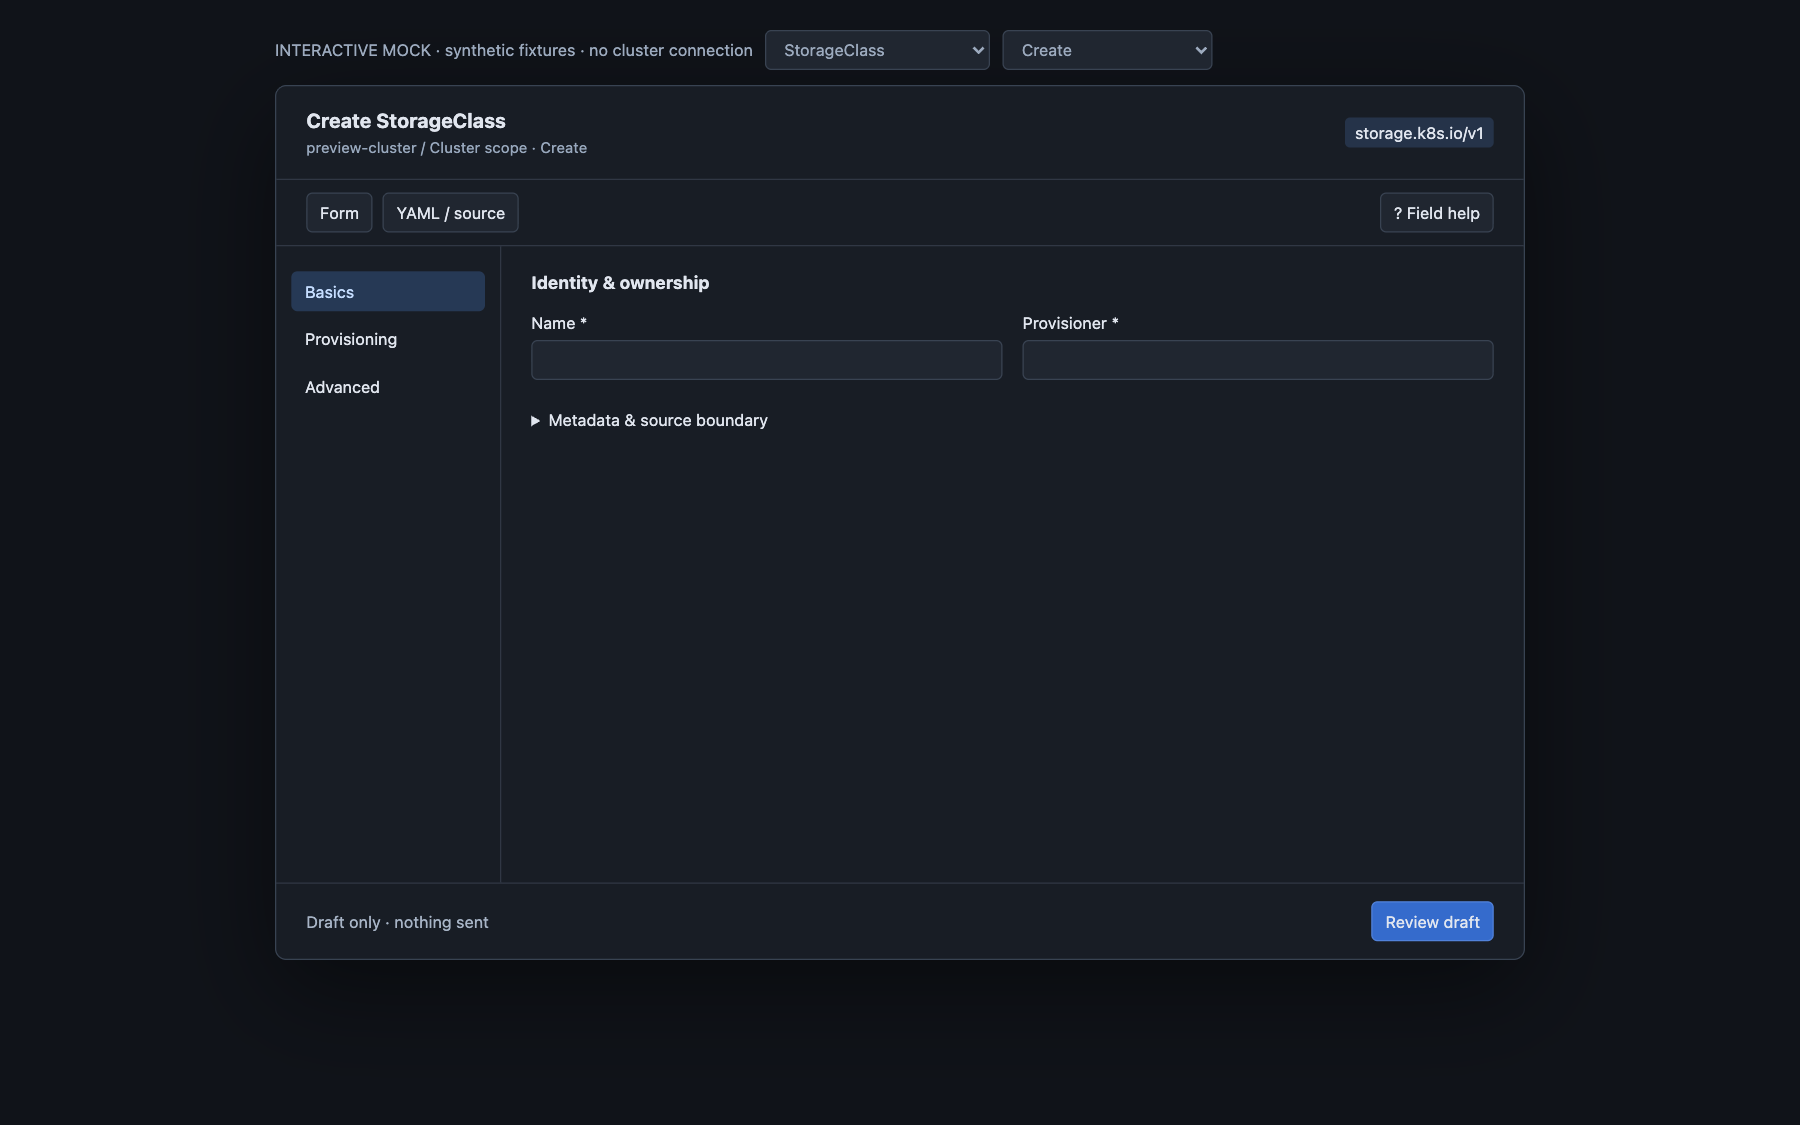
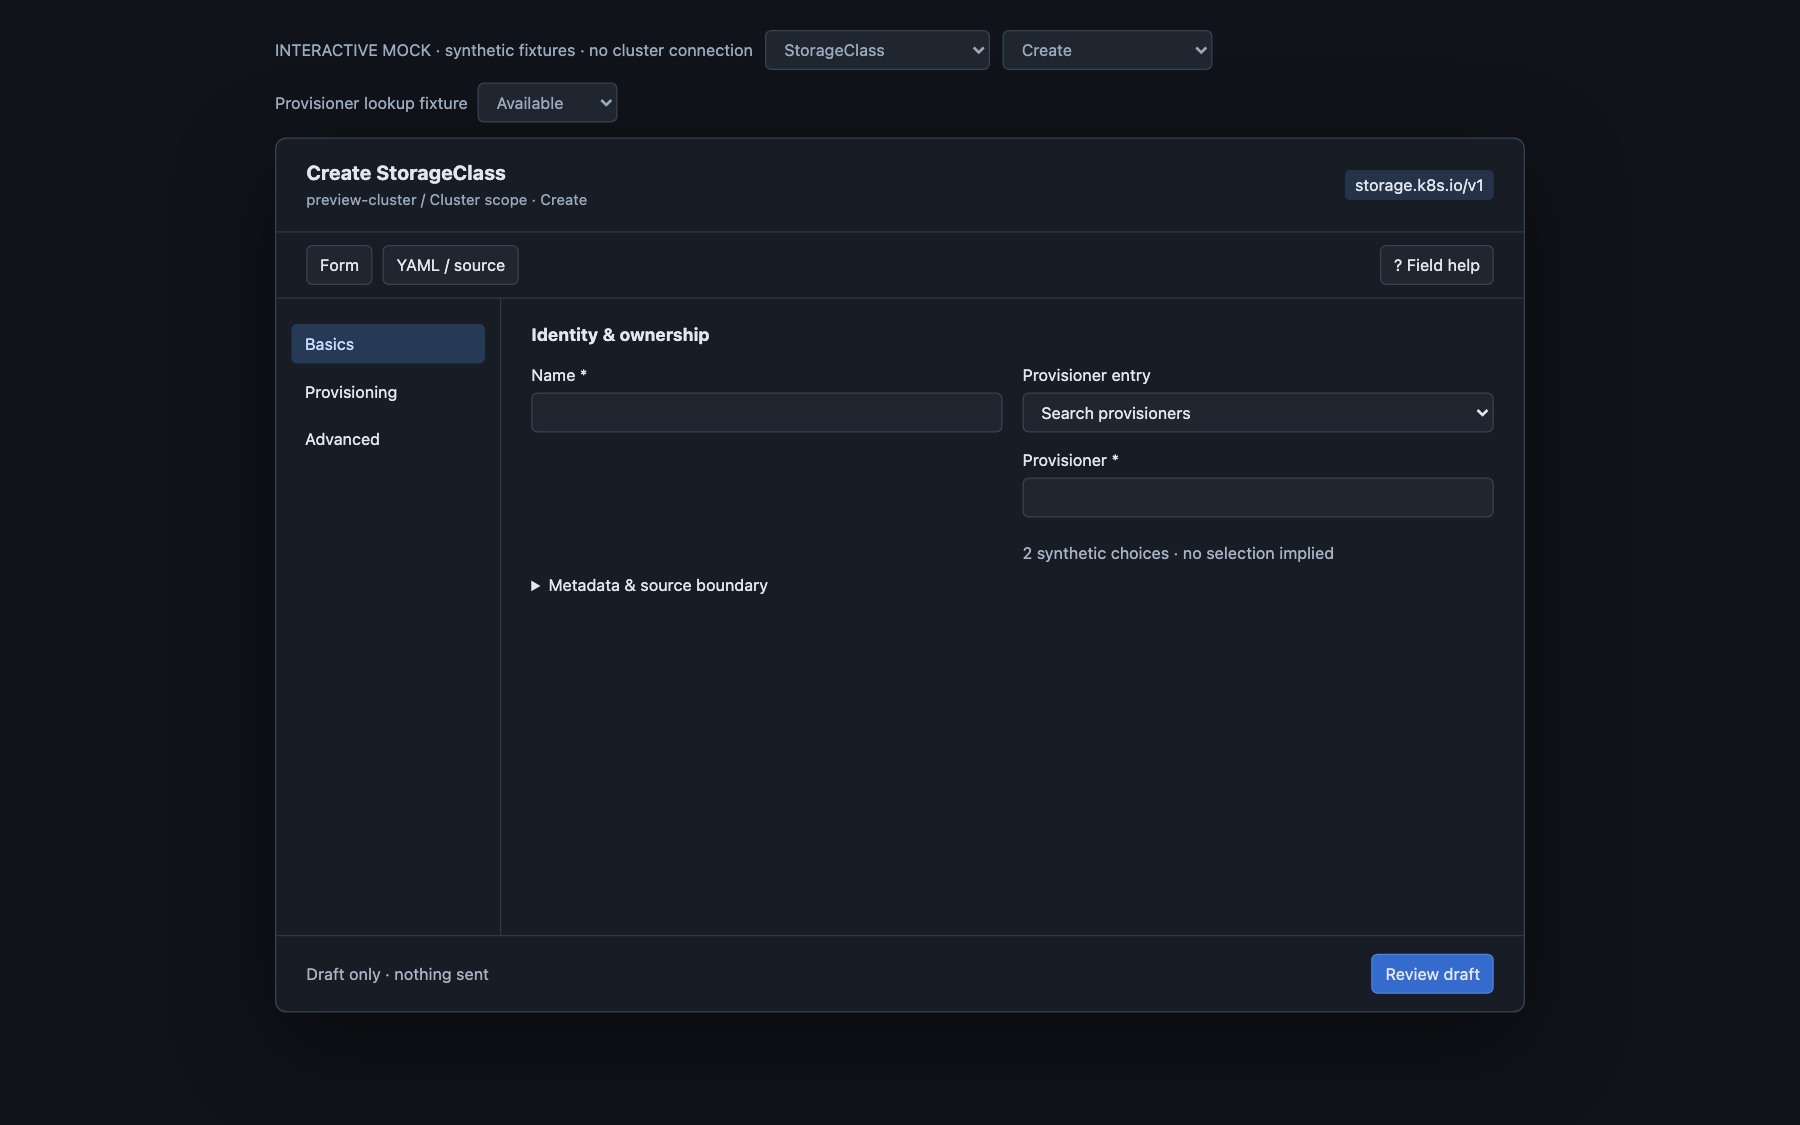
Improve StorageClass provisioner choice and lookup boundaries

diff --git a/index.html b/index.html
@@ -17,3 +17,44 @@ render=function(){storageRender();if(kind==='CSIDriver'&&section==='Basics'&&mod
 const storageInput=content.oninput;
 content.oninput=function(e){storageInput(e);if(kind==='CSIDriver'&&e.target.dataset.key==='name')state().driver=e.target.value;};
 </script>
+<script>
+const lookupFixture=document.createElement('label');
+lookupFixture.style.cssText='display:inline-flex;gap:8px;align-items:center;margin:0';
+lookupFixture.innerHTML='Provisioner lookup fixture <select id="lookupFixture" aria-label="Provisioner lookup fixture"><option>Available</option><option>Empty</option><option>Denied</option><option>Unavailable</option></select>';
+document.querySelector('.fixture').append(lookupFixture);
+let provisionerLookup='Available',provisionerEntry='lookup';
+const provisionerRender=render;
+render=function(){provisionerRender();lookupFixture.hidden=kind!=='StorageClass';if(kind!=='StorageClass'||section!=='Basics'||mode!=='form'||reviewing)return;const old=content.querySelector('[data-key=driver]');if(!old)return;
+const field=old.closest('label'),value=state().driver;
+const wrap=document.createElement('div');
+wrap.innerHTML='<label>Provisioner entry<select id="provisionerEntry" aria-label="Provisioner entry"><option value="lookup">Search provisioners</option><option value="manual">Manual / unresolved identifier</option><option value="static">No dynamic provisioning</option></select></label><label>Provisioner *<input id="provisionerValue" data-key="driver" aria-describedby="lookupStatus" autocomplete="off" spellcheck="false" list="provisionerChoices"></label><datalist id="provisionerChoices"></datalist><div id="lookupStatus" class="muted" role="status" aria-live="polite"></div>';
+field.replaceWith(wrap);
+const entry=wrap.querySelector('select'),input=wrap.querySelector('input');
+entry.value=provisionerEntry;entry.disabled=locked();input.value=value;input.disabled=locked()||provisionerEntry==='static';
+if(provisionerLookup==='Available'&&provisionerEntry==='lookup')wrap.querySelector('datalist').innerHTML='<option value="csi.preview.example">Preview CSI driver · fixture</option><option value="legacy.preview.example/provisioner">Legacy provisioner · fixture</option>';
+if(provisionerEntry!=='lookup')input.removeAttribute('list');
+wrap.querySelector('#lookupStatus').textContent=provisionerEntry==='static'?'kubernetes.io/no-provisioner':provisionerEntry==='manual'?'Manual identifier · lookup match not required':({Available:'2 synthetic choices · no selection implied',Empty:'No provisioners returned · manual entry available',Denied:'Lookup denied · manual entry available',Unavailable:'Lookup unavailable · manual entry available'})[provisionerLookup];
+entry.onchange=()=>{provisionerEntry=entry.value;if(entry.value==='static')state().driver='kubernetes.io/no-provisioner';render();};
+};
+document.querySelector('#lookupFixture').onchange=e=>{provisionerLookup=e.target.value;render();};
+const originalFieldHelp=helpButton.onclick;
+helpButton.onclick=()=>{originalFieldHelp();if(kind==='StorageClass')document.querySelector('#helpText').textContent='Search synthetic provisioner choices or enter any exact identifier manually. A valid legacy or unresolved provisioner does not need a CSIDriver object. No dynamic provisioning explicitly uses kubernetes.io/no-provisioner; it does not create a volume. Lookup empty, denied and unavailable do not erase your identifier. Unspecified reclaim defaults server-side to Delete; binding to Immediate. No defaults are inserted.';};
+render();
+</script>
+<script>
+const comboboxRender=render;
+render=function(){comboboxRender();const input=content.querySelector('#provisionerValue');if(!input||provisionerEntry!=='lookup'||locked())return;
+input.removeAttribute('list');input.setAttribute('role','combobox');input.setAttribute('aria-autocomplete','list');input.setAttribute('aria-controls','provisionerOptions');input.setAttribute('aria-expanded','false');
+const options=document.createElement('div');options.id='provisionerOptions';options.setAttribute('role','listbox');options.setAttribute('aria-label','Provisioner choices');input.after(options);
+function closeOptions(){options.replaceChildren();input.setAttribute('aria-expanded','false');}
+function showOptions(){closeOptions();if(provisionerLookup!=='Available')return;
+const values=['csi.preview.example','legacy.preview.example/provisioner'].filter(v=>v.toLowerCase().includes(input.value.toLowerCase()));
+for(const value of values){const option=document.createElement('button');option.type='button';option.setAttribute('role','option');option.style.cssText='width:100%;text-align:left;margin-top:4px';option.textContent=value+' · fixture';option.onclick=e=>{e.preventDefault();input.value=value;state().driver=value;closeOptions();input.focus();};option.onkeydown=e=>{if(e.key==='Escape'){e.preventDefault();closeOptions();input.focus();}if(e.key==='ArrowDown'){e.preventDefault();option.nextElementSibling?.focus();}if(e.key==='ArrowUp'){e.preventDefault();(option.previousElementSibling||input).focus();}};options.append(option);}
+input.setAttribute('aria-expanded',String(values.length>0));}
+input.oninput=showOptions;input.onfocus=showOptions;input.onkeydown=e=>{if(e.key==='ArrowDown'){e.preventDefault();showOptions();options.querySelector('button')?.focus();}if(e.key==='Escape'){e.preventDefault();closeOptions();}};
+};
+render();
+</script>
+<style>[hidden]{display:none!important}</style>
+<script>content.addEventListener('input',()=>{const errors=content.querySelector('#errors');if(errors)errors.replaceChildren();});</script>
+<style>.grid{align-items:start}</style>
